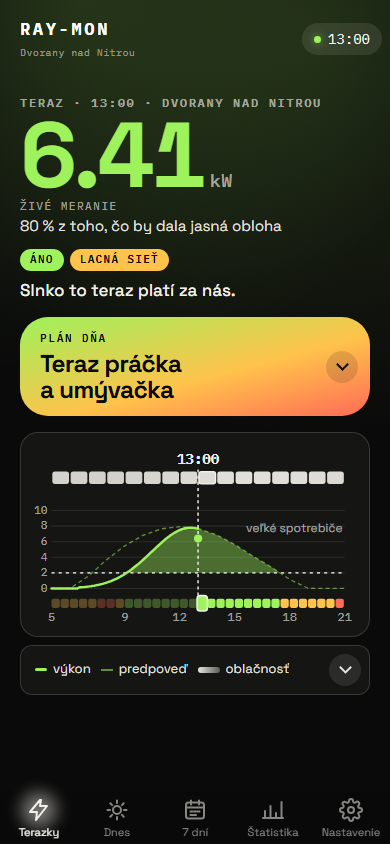
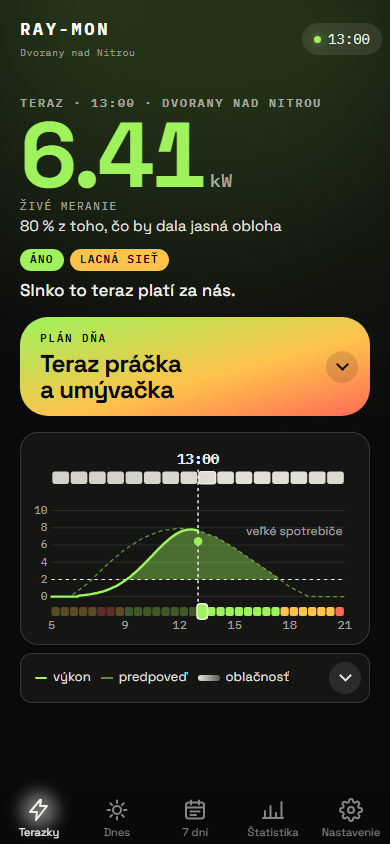
feat: plocha krivky v grafe dňa vyššia o 10 % (#389)
## Čo sa mení

Graf dňa (karta Terazky / Teraz a detail dňa na karte 7 dní, obe appky):
plocha krivky je zvislo o 10 % vyššia – 84 jednotiek viewBoxu namiesto
76 (`DAY_CHART.base` 138 → 146, `h` 176 → 184). Pás plánu a hodiny sa
posunuli nadol, riadok oblačnosti ostáva rovnaký. Všetko ostatné
(mriežka, nápis hranice, čas náhľadu) sa ráta z `DAY_CHART`, takže sa
prispôsobí samo.

## Overenie

- `npm run check` – zelené
- `npm run test:e2e` – 368 passed
- `npm run screenshots` – zmenila sa `docs/img/terazky.png`

🤖 Generated with [Claude Code](https://claude.com/claude-code)

Changed region(s): [[0.0615, 0.6161, 0.9538, 0.8318], [0.4, 0.6161, 0.5846, 0.6469]]

diff --git a/shared/day-chart.js b/shared/day-chart.js
@@ -25,14 +25,14 @@ import { DAY_CHART_KEYS, TERAZ_TONES, terazPreviewTime } from './messages-core.j
  */
 export const DAY_CHART = {
     w: 320,
-    h: 176,
+    h: 184,
     left: 20,
     right: 306,
     cloudY: 24,
     cloudH: 12,
     top: 62,
-    base: 138,
-    bandY: 148,
+    base: 146,
+    bandY: 156,
     bandH: 9,
     maxKw: 10,
     cellMin: 30,
